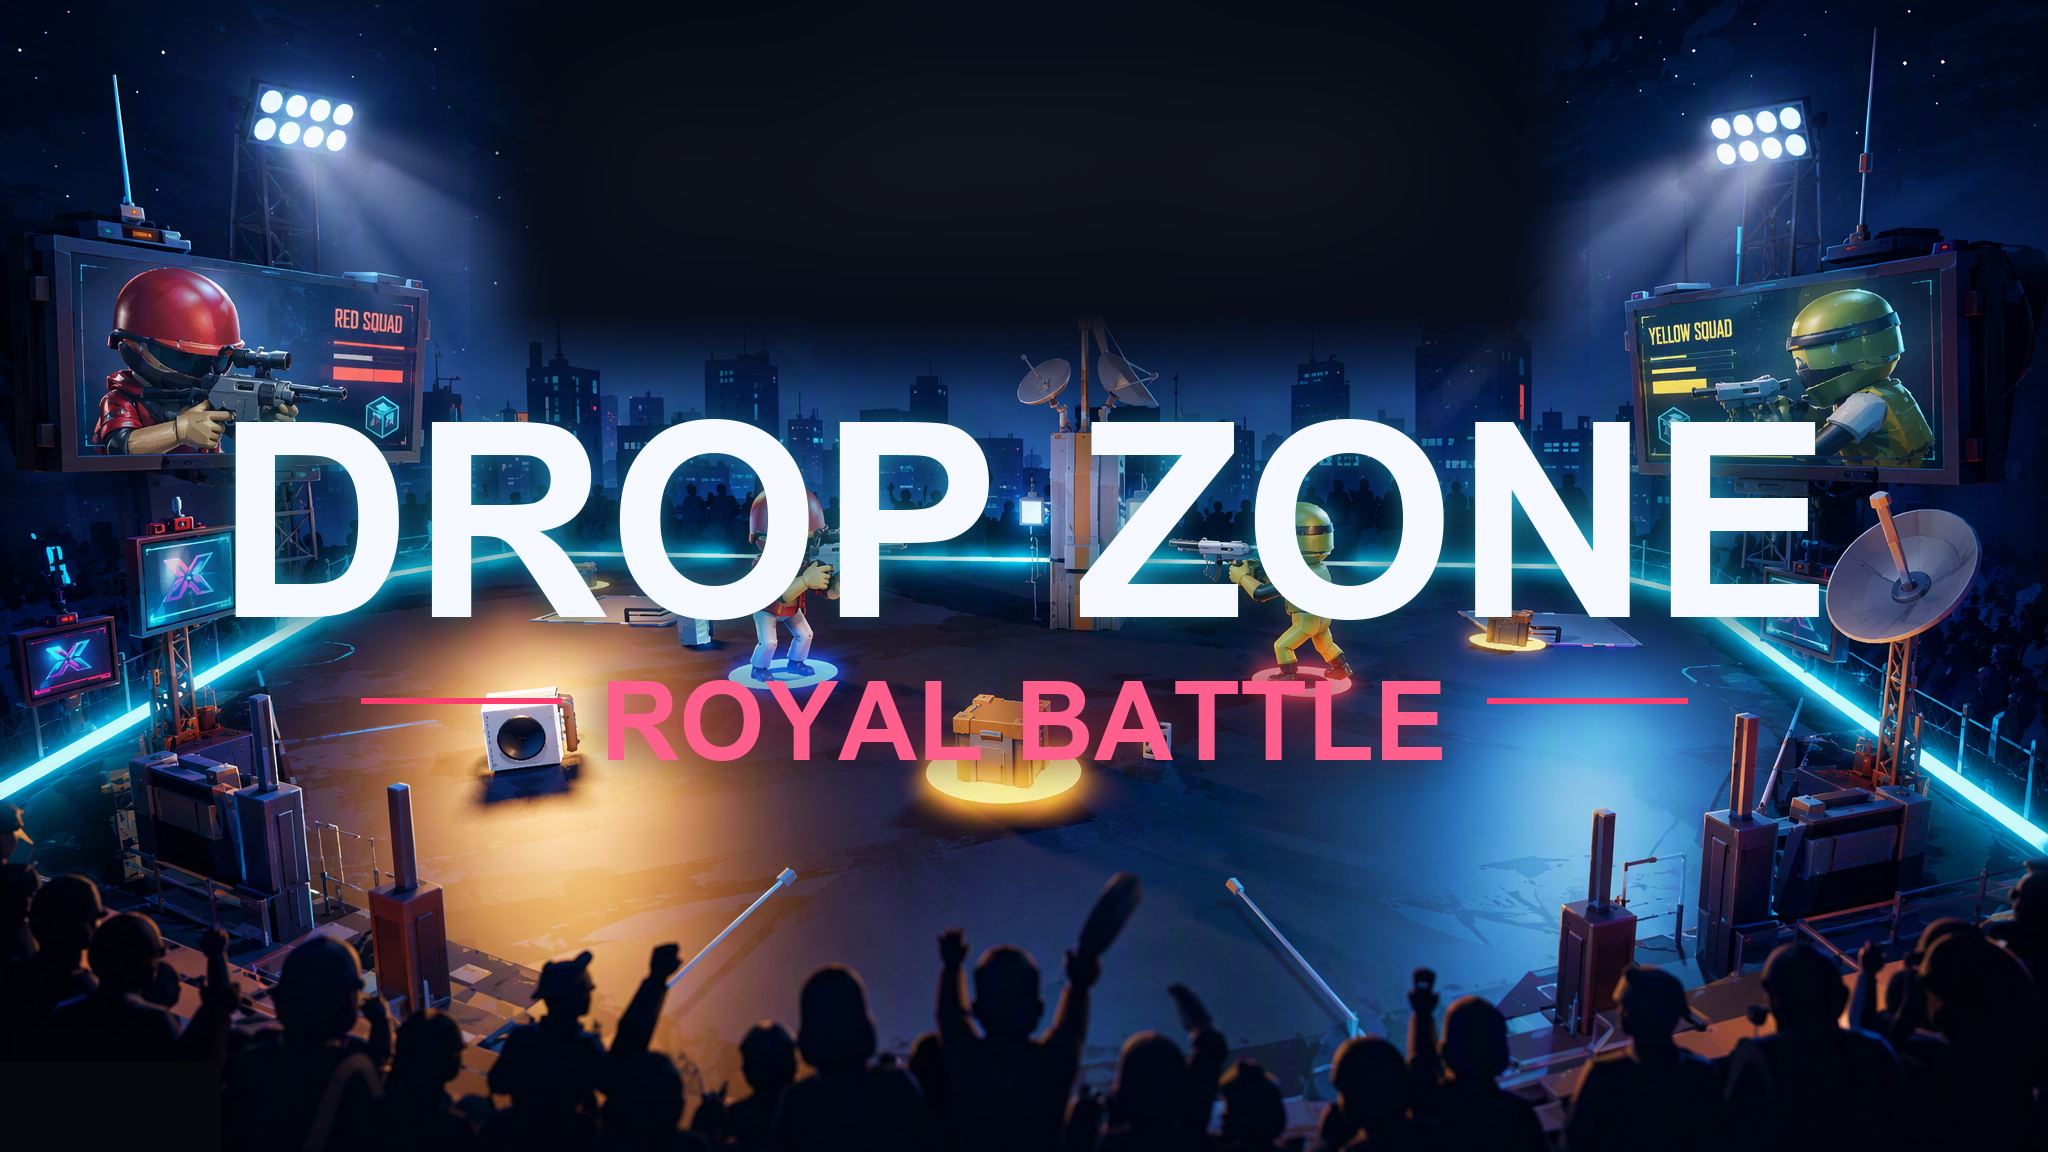
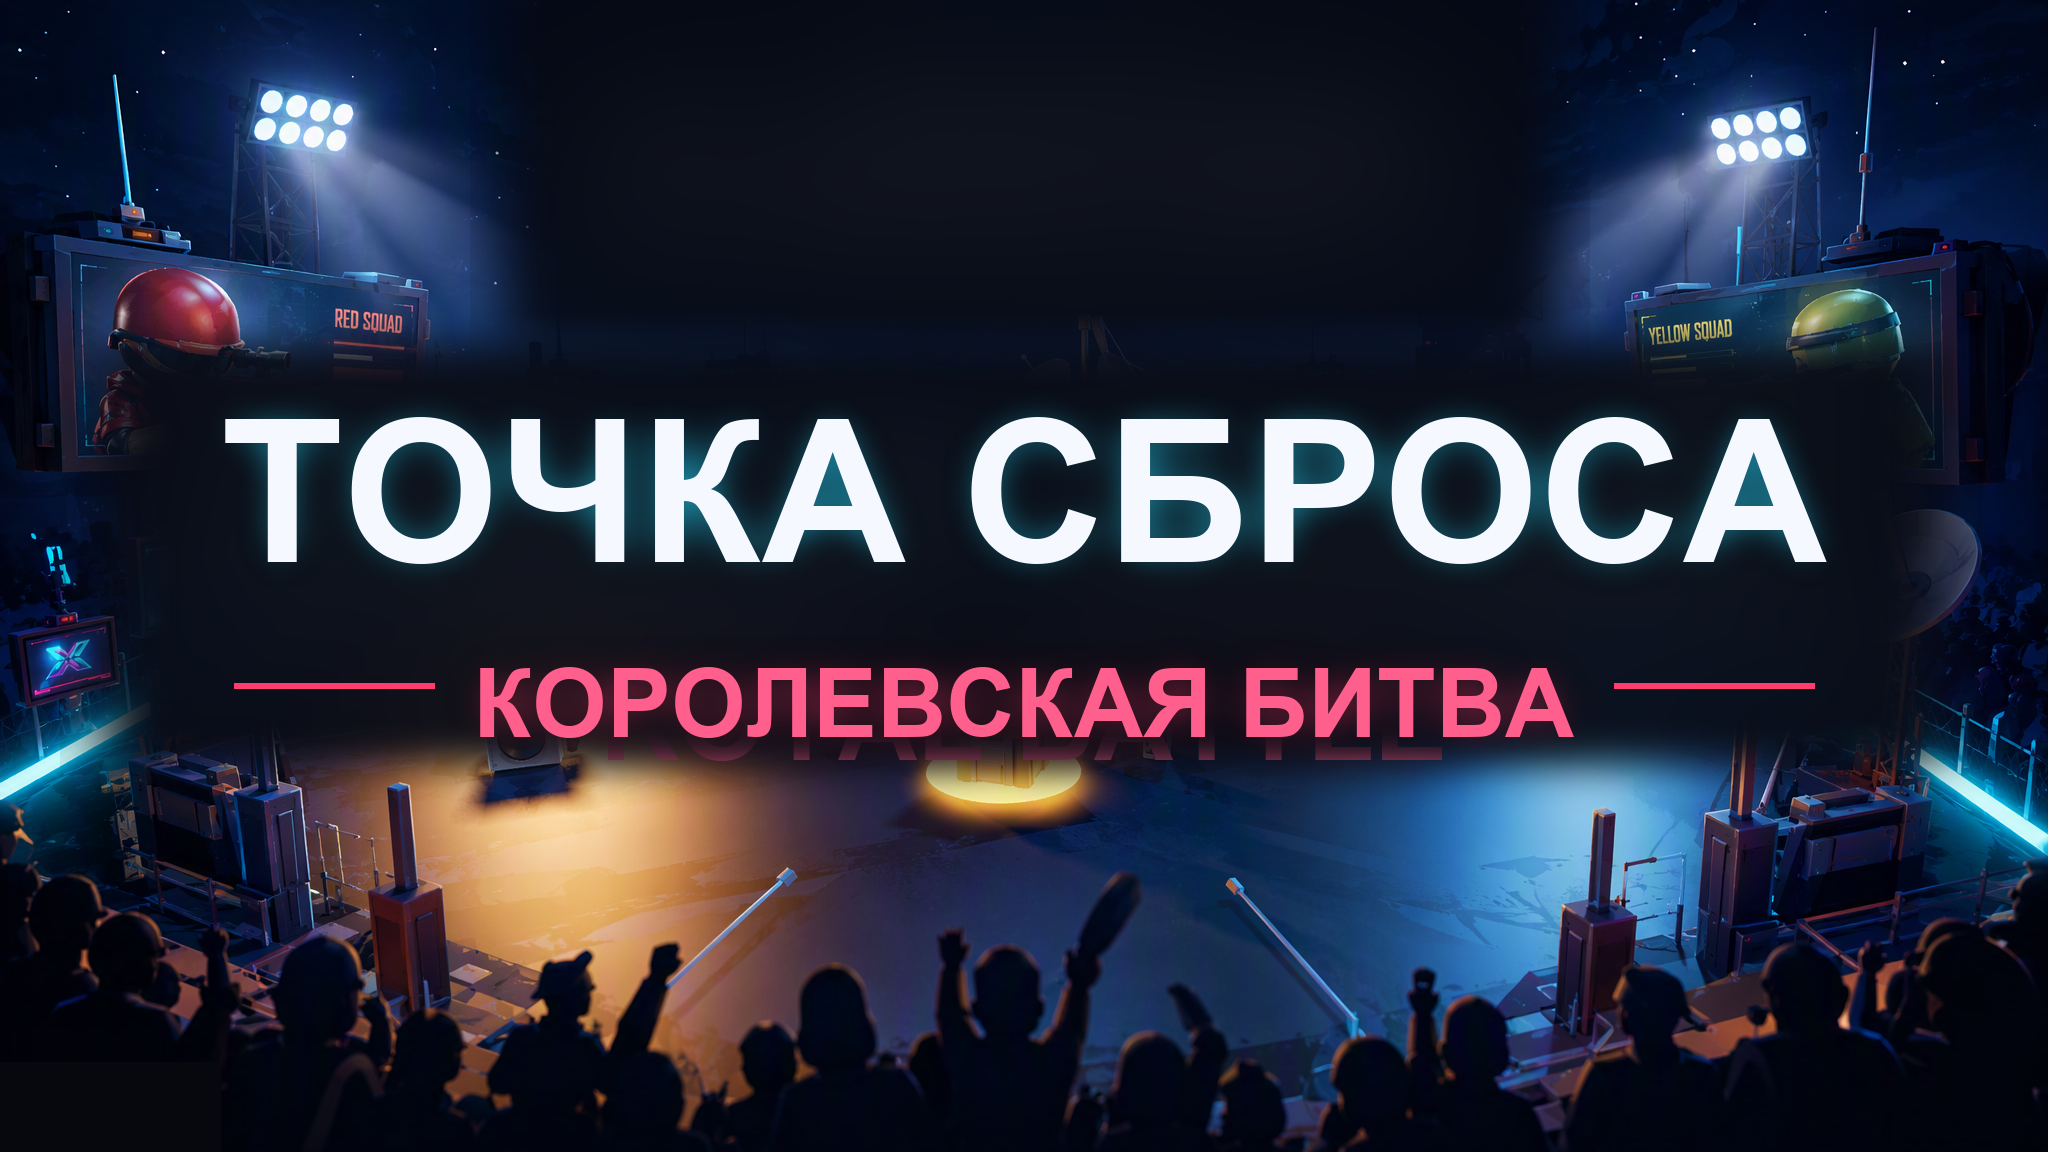
v6.43b: арты ВК под новое название (обложка, аватарка, пост)

Changed region(s): [[0.0312, 0.2812, 0.9688, 0.6875]]

diff --git a/tools/make_vk_rebrand.py b/tools/make_vk_rebrand.py
@@ -1,0 +1,93 @@
+# Ребрендинг артов ВК: «ТОЧКА СБРОСА / КОРОЛЕВСКАЯ БИТВА» — обложка + аватарка группы
+from PIL import Image, ImageDraw, ImageFont, ImageFilter, ImageChops
+import os
+
+ROOT = r"G:\Kimi project\Drop Zone"
+FB = "C:/Windows/Fonts/arialbd.ttf"  # жирный, кириллица
+T1, T2 = "ТОЧКА СБРОСА", "КОРОЛЕВСКАЯ БИТВА"
+
+def fit(text, start, max_w):
+    size = start
+    f = ImageFont.truetype(FB, size)
+    while size > 20:
+        f = ImageFont.truetype(FB, size)
+        bb = f.getbbox(text)
+        if bb[2] - bb[0] <= max_w:
+            return f
+        size -= 4
+    return f
+
+def cx(text, font, W, y):
+    bb = font.getbbox(text)
+    return ((W - (bb[2] - bb[0])) // 2 - bb[0], y)
+
+# ---------- 1) обложка 2048x1152 ----------
+SRC = os.path.join(ROOT, "docs", "vk_cover.png")
+# бэкап старой версии один раз
+if not os.path.exists(os.path.join(ROOT, "docs", "vk_cover_dropzone.png")):
+    Image.open(SRC).save(os.path.join(ROOT, "docs", "vk_cover_dropzone.png"))
+
+img = Image.open(SRC).convert("RGB")
+W, H = img.size
+
+# закрываем старый титл (зона y 300..840, почти вся ширина)
+box = (60, 300, W - 60, 840)
+bw, bh = box[2] - box[0], box[3] - box[1]
+sky = img.crop(box).filter(ImageFilter.GaussianBlur(70))
+dark = Image.new("RGB", sky.size, (6, 9, 19))
+sky = Image.blend(sky, dark, 0.92)
+mask = Image.new("L", (bw, bh), 0)
+md = ImageDraw.Draw(mask)
+for yy in range(bh):
+    a = 255 if bh * 0.08 < yy < bh * 0.86 else 0
+    md.line([(0, yy), (bw, yy)], fill=a)
+mask = mask.filter(ImageFilter.GaussianBlur(18))
+edge = Image.new("L", (bw, bh), 0)
+ed = ImageDraw.Draw(edge)
+ed.rectangle([40, 0, bw - 40, bh], fill=255)
+edge = edge.filter(ImageFilter.GaussianBlur(30))
+mask = ImageChops.multiply(mask, edge)
+img.paste(sky, box, mask)
+
+f1 = fit(T1, 260, int(W * 0.80))
+f2 = fit(T2, 100, int(W * 0.55))
+Y1, Y2 = 380, 650
+
+glow = Image.new("RGBA", (W, H), (0, 0, 0, 0))
+gd = ImageDraw.Draw(glow)
+gd.text(cx(T1, f1, W, Y1), T1, font=f1, fill=(40, 216, 255, 255))
+gd.text(cx(T2, f2, W, Y2), T2, font=f2, fill=(255, 60, 110, 255))
+glow = glow.filter(ImageFilter.GaussianBlur(20))
+img = Image.alpha_composite(img.convert("RGBA"), glow)
+d = ImageDraw.Draw(img)
+d.text(cx(T1, f1, W, Y1), T1, font=f1, fill=(245, 248, 255, 255))
+d.text(cx(T2, f2, W, Y2), T2, font=f2, fill=(255, 95, 140, 255))
+bb2 = f2.getbbox(T2)
+w2 = bb2[2] - bb2[0]
+ly = Y2 + (bb2[3] - bb2[1]) // 2
+d.line([(W // 2 - w2 // 2 - 240, ly), (W // 2 - w2 // 2 - 40, ly)], fill=(255, 60, 110, 220), width=6)
+d.line([(W // 2 + w2 // 2 + 40, ly), (W // 2 + w2 // 2 + 240, ly)], fill=(255, 60, 110, 220), width=6)
+
+img.convert("RGB").save(os.path.join(ROOT, "docs", "vk_cover.png"))
+img.convert("RGB").resize((1024, 576), Image.LANCZOS).save(os.path.join(ROOT, "docs", "vk_cover_small.jpg"), quality=88)
+print("COVER_OK")
+
+# ---------- 2) аватарка 512x512 ----------
+AV = 512
+av = Image.new("RGB", (AV, AV), (6, 9, 19))
+# вертикальный градиент тёмно-синий -> чёрный
+for yy in range(AV):
+    t = yy / AV
+    r = int(10 + 14 * (1 - t)); g = int(14 + 22 * (1 - t)); b = int(28 + 40 * (1 - t))
+    ImageDraw.Draw(av).line([(0, yy), (AV, yy)], fill=(r, g, b))
+logo = Image.open(os.path.join(ROOT, "game", "assets", "ui", "logo.png")).convert("RGBA")
+lw = int(AV * 0.92)
+lh = int(logo.height * lw / logo.width)
+logo = logo.resize((lw, lh), Image.LANCZOS)
+av = av.convert("RGBA")
+av.alpha_composite(logo, ((AV - lw) // 2, (AV - lh) // 2))
+d = ImageDraw.Draw(av)
+d.rectangle([60, AV - 74, AV - 60, AV - 66], fill=(255, 60, 110, 220))
+d.rectangle([60, 66, AV - 60, 74], fill=(40, 216, 255, 220))
+av.convert("RGB").save(os.path.join(ROOT, "docs", "vk_avatar.png"))
+print("AVATAR_OK")

diff --git a/tools/make_vk_avatar.py b/tools/make_vk_avatar.py
@@ -1,0 +1,35 @@
+# Аватарка группы ВК 512x512: «ТОЧКА СБРОСА» в две строки + подзаголовок
+from PIL import Image, ImageDraw, ImageFont, ImageFilter
+import os
+
+ROOT = r"G:\Kimi project\Drop Zone"
+FB = "C:/Windows/Fonts/arialbd.ttf"
+AV = 512
+
+av = Image.new("RGB", (AV, AV), (6, 9, 19))
+for yy in range(AV):
+    t = yy / AV
+    ImageDraw.Draw(av).line([(0, yy), (AV, yy)], fill=(int(10 + 16 * (1 - t)), int(16 + 26 * (1 - t)), int(32 + 48 * (1 - t))))
+
+f1 = ImageFont.truetype(FB, 118)
+f2 = ImageFont.truetype(FB, 34)
+
+def cx(text, font, y):
+    bb = font.getbbox(text)
+    return ((AV - (bb[2] - bb[0])) // 2 - bb[0], y)
+
+glow = Image.new("RGBA", (AV, AV), (0, 0, 0, 0))
+gd = ImageDraw.Draw(glow)
+gd.text(cx("ТОЧКА", f1, 108), "ТОЧКА", font=f1, fill=(40, 216, 255, 255))
+gd.text(cx("СБРОСА", f1, 226), "СБРОСА", font=f1, fill=(40, 216, 255, 255))
+gd.text(cx("КОРОЛЕВСКАЯ БИТВА", f2, 376), "КОРОЛЕВСКАЯ БИТВА", font=f2, fill=(255, 60, 110, 255))
+glow = glow.filter(ImageFilter.GaussianBlur(14))
+av = Image.alpha_composite(av.convert("RGBA"), glow)
+d = ImageDraw.Draw(av)
+d.text(cx("ТОЧКА", f1, 108), "ТОЧКА", font=f1, fill=(245, 248, 255, 255))
+d.text(cx("СБРОСА", f1, 226), "СБРОСА", font=f1, fill=(245, 248, 255, 255))
+d.text(cx("КОРОЛЕВСКАЯ БИТВА", f2, 376), "КОРОЛЕВСКАЯ БИТВА", font=f2, fill=(255, 95, 140, 255))
+d.rectangle([120, 60, AV - 120, 66], fill=(40, 216, 255, 220))
+d.rectangle([120, AV - 66, AV - 120, AV - 60], fill=(255, 60, 110, 220))
+av.convert("RGB").save(os.path.join(ROOT, "docs", "vk_avatar.png"))
+print("AVATAR_OK")

diff --git a/docs/VK_POST.md b/docs/VK_POST.md
@@ -1,4 +1,4 @@
-# Тексты для группы ВК — Drop Zone
+# Тексты для группы ВК — Точка Сброса
 
 ## Описание группы (короткое, в шапку)
 
